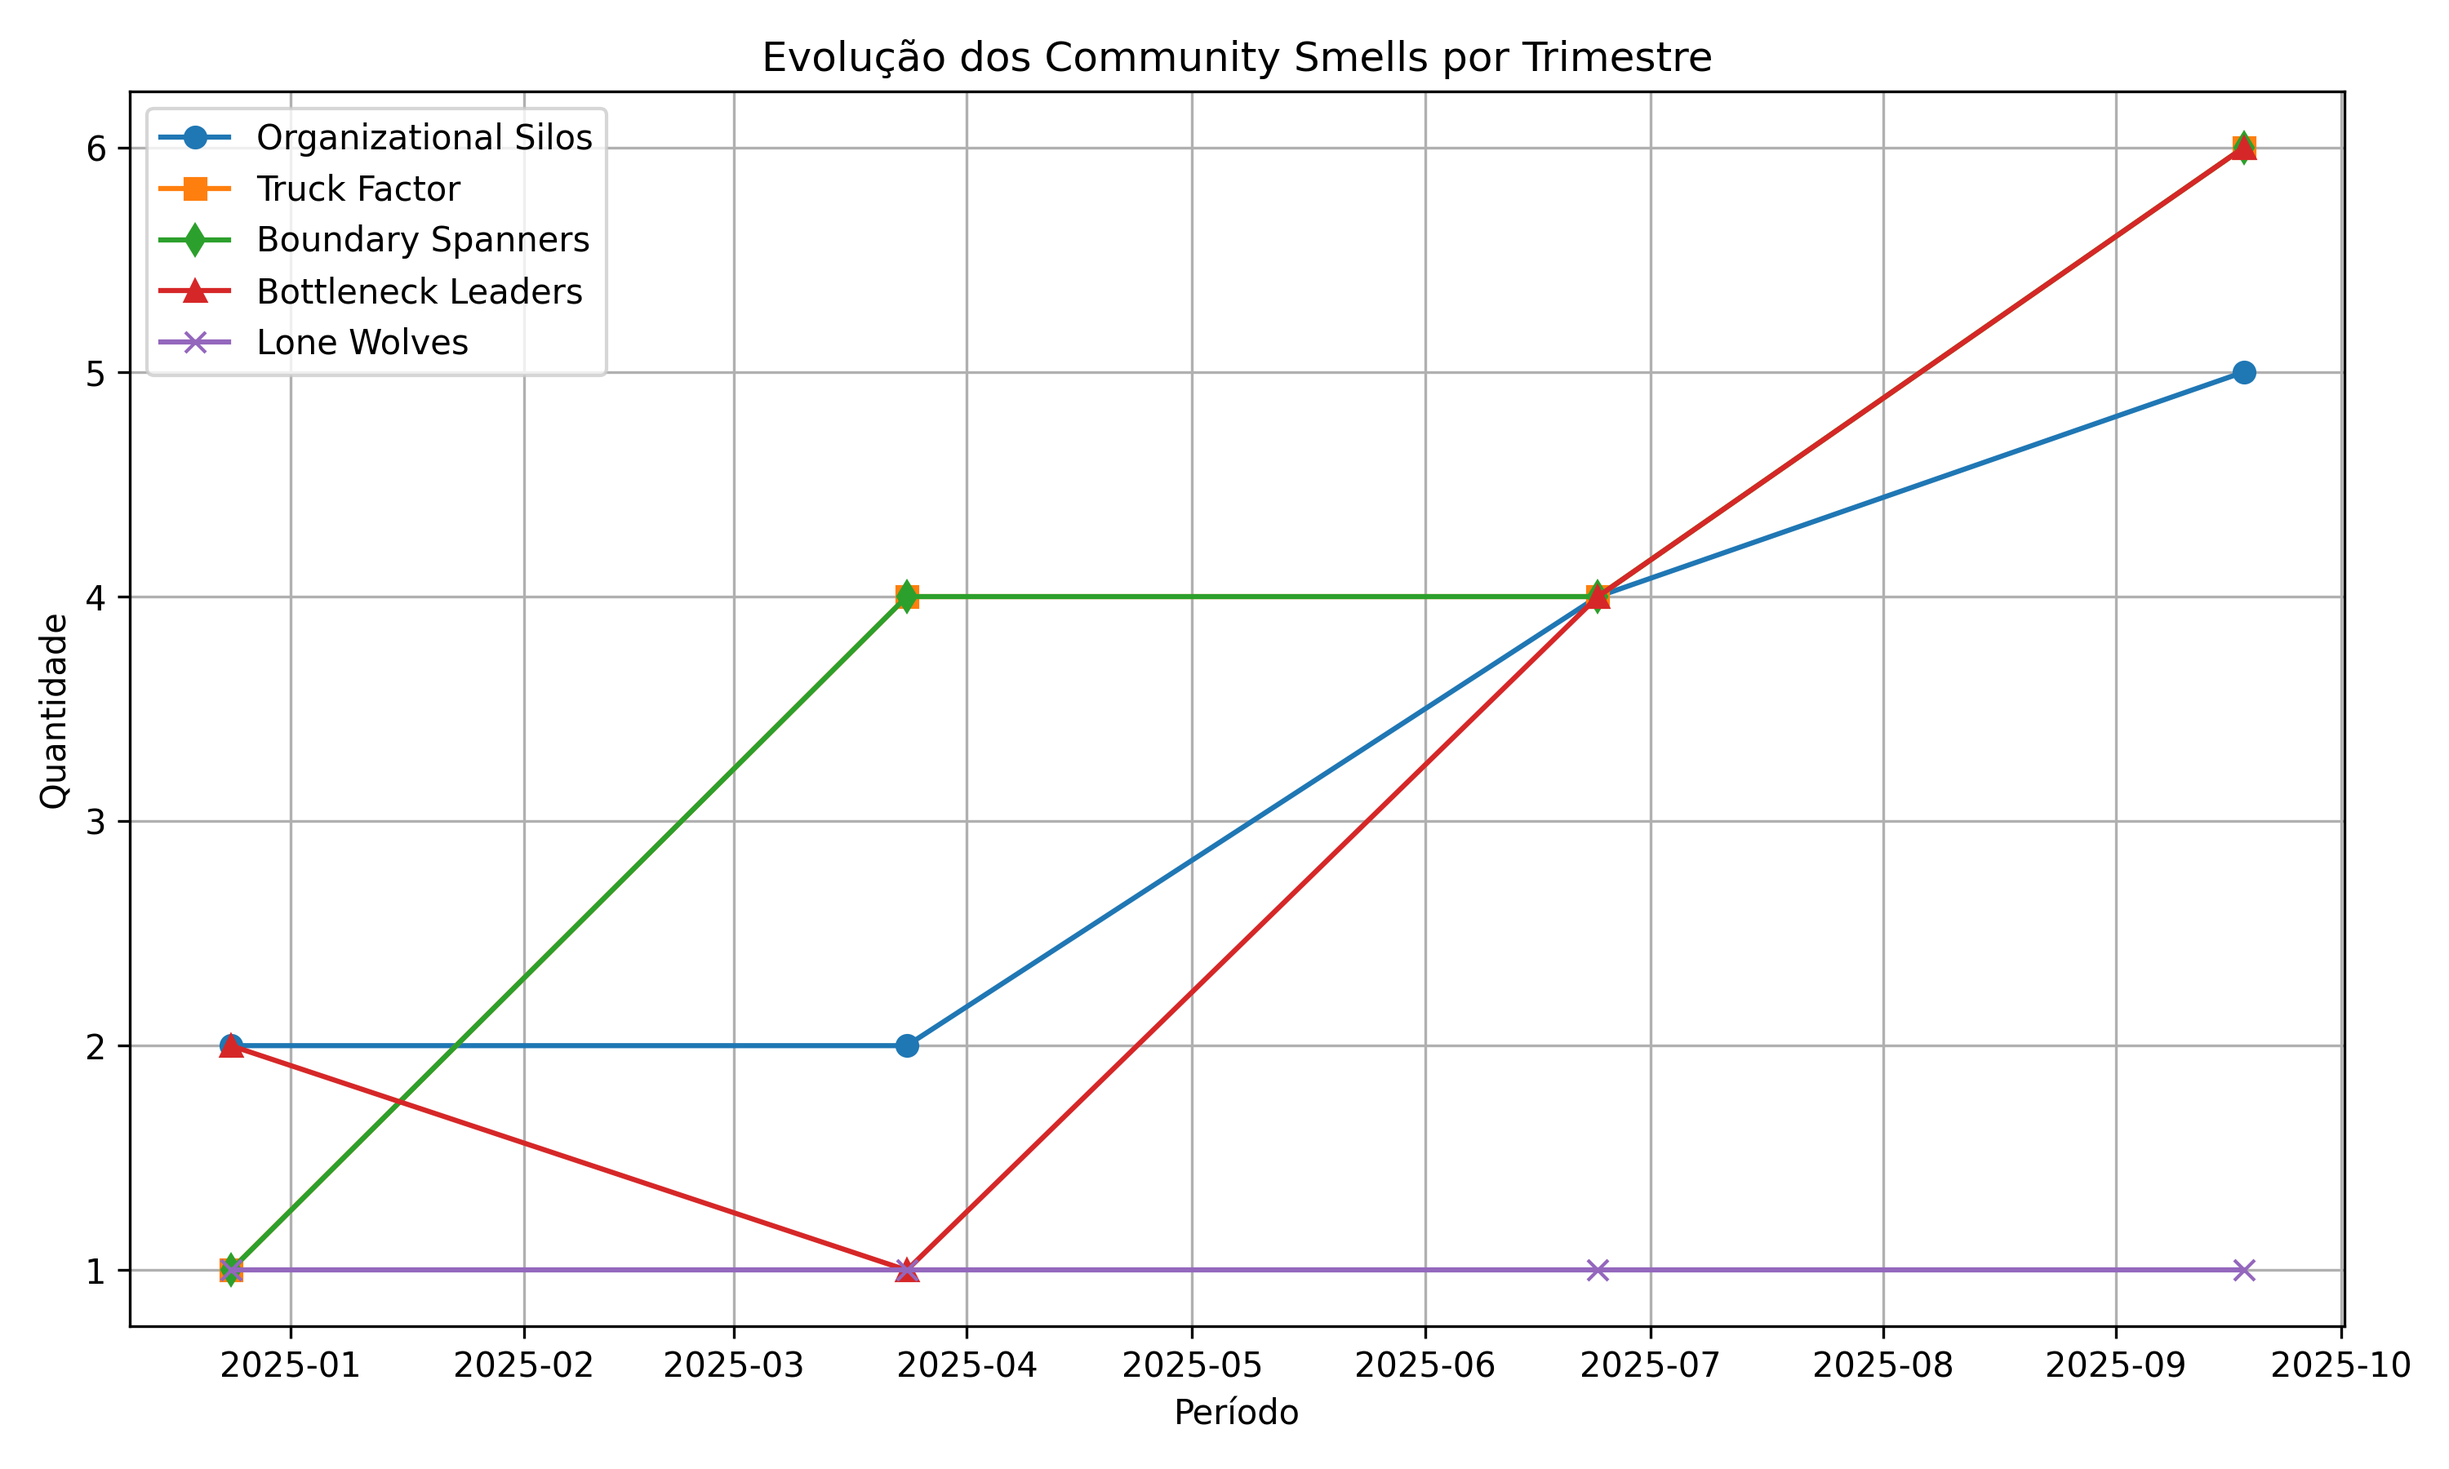
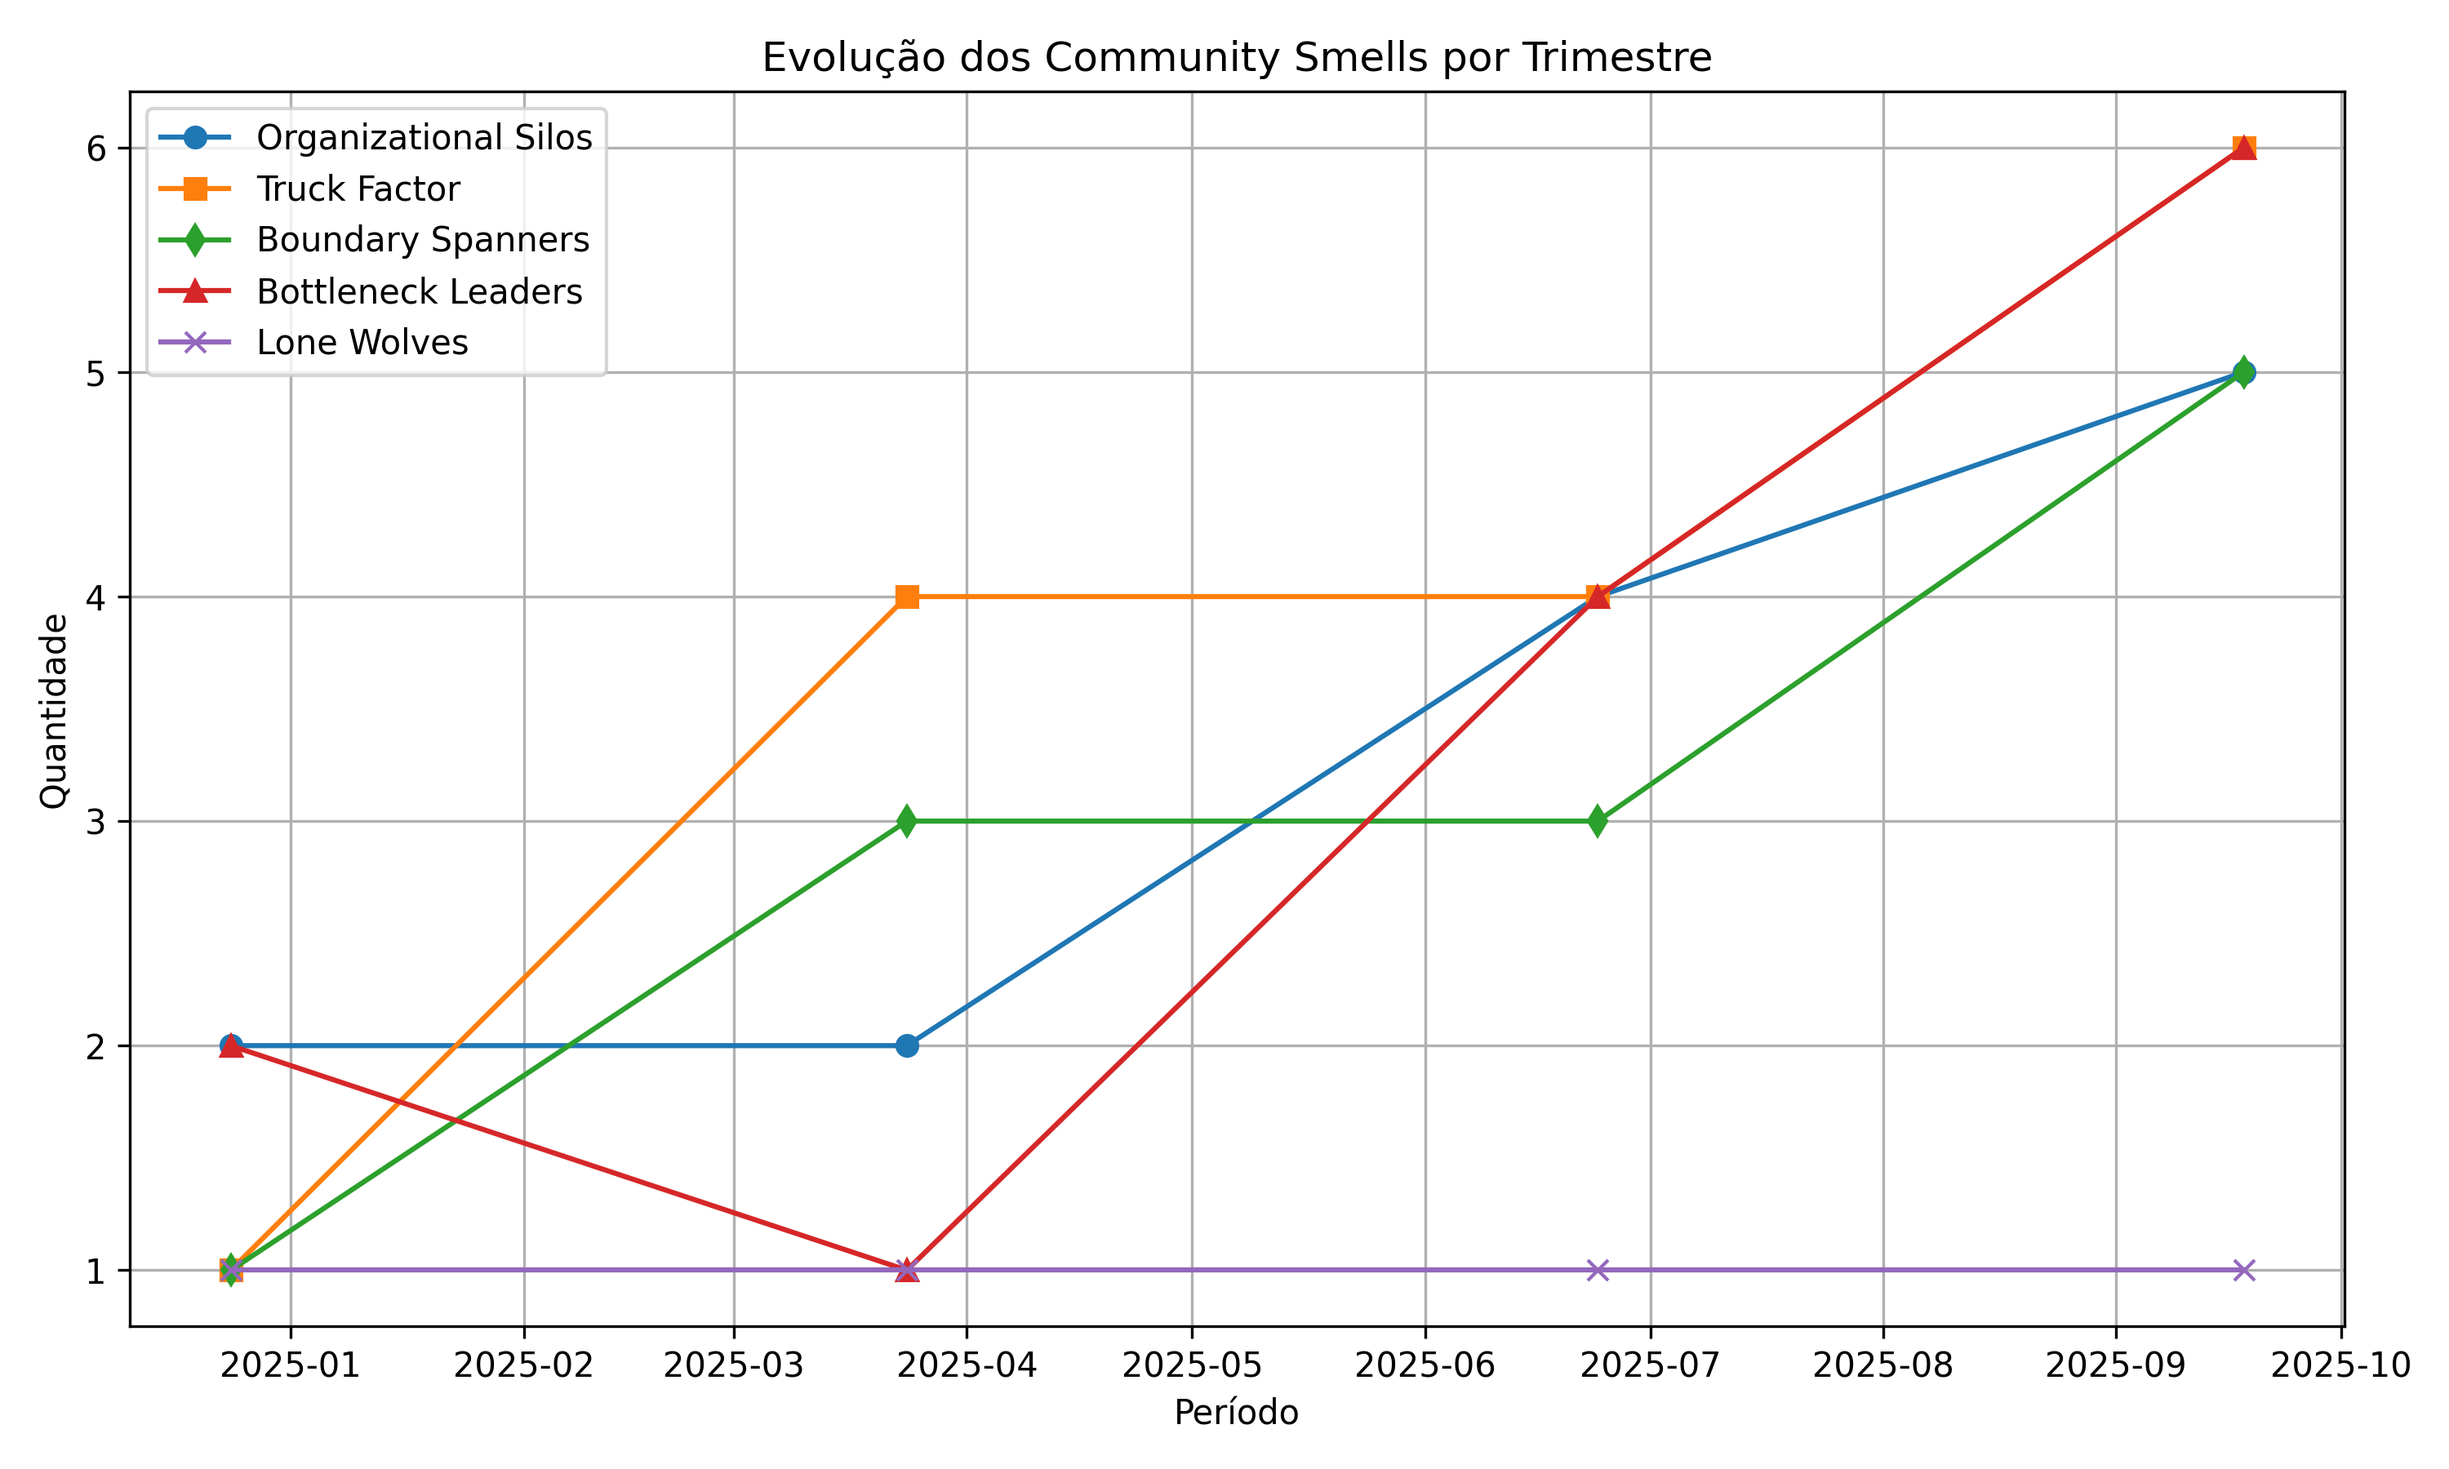
.
.

diff --git a/src/report/community_smells/community_smells_by_teams.py b/src/report/community_smells/community_smells_by_teams.py
@@ -16,7 +16,6 @@ USER = os.getenv("NEO4J_USER")
 PASSWORD = os.getenv("NEO4J_PASSWORD")
 driver = GraphDatabase.driver(URI, auth=(USER, PASSWORD))
 
-
 sys.stdout.reconfigure(encoding="utf-8")
 
 # === Função para remover acentos e caracteres especiais ===
@@ -24,8 +23,6 @@ def remover_acentos(txt):
     if not isinstance(txt, str):
         return txt
     return unicodedata.normalize("NFKD", txt).encode("ASCII", "ignore").decode("utf-8")
-
-
 
 # === Parâmetro de granularidade temporal ===
 TIME_UNIT = "all"
@@ -36,8 +33,8 @@ if TIME_UNIT == "all":
     // Colaboração (não-direcionada)
     MATCH (p1:person)-[r:CO_COMMIT_IN|CO_ASSIGNED]-(p2:person)
     WHERE r.created_at IS NOT NULL 
-    AND coalesce(p1.role, "none") <> "consultant"
-    AND coalesce(p2.role, "none") <> "consultant"  
+      AND coalesce(p1.role, "none") <> "consultant"
+      AND coalesce(p2.role, "none") <> "consultant"  
     WITH "ALL" AS periodo,
          p1.team_slug AS team1,
          p2.team_slug AS team2,
@@ -54,8 +51,8 @@ if TIME_UNIT == "all":
     // Coordenação (direcionada)
     MATCH (c:person)-[r:COORDINATES]->(a:person)
     WHERE r.created_at IS NOT NULL 
-    AND coalesce(c.role, "none") <> "consultant"
-    AND coalesce(a.role, "none") <> "consultant"  
+      AND coalesce(c.role, "none") <> "consultant"
+      AND coalesce(a.role, "none") <> "consultant"  
     WITH "ALL" AS periodo,
          c.team_slug AS team1,
          a.team_slug AS team2,
@@ -72,8 +69,8 @@ if TIME_UNIT == "all":
     // Isolados
     MATCH (p:person)
     WHERE NOT (p)-[:CO_COMMIT_IN|CO_ASSIGNED|COORDINATES]-(:person) 
-    AND p.organization = "leds-conectafapes" 
-    AND coalesce(p.role, "none") <> "consultant"
+      AND p.organization = "leds-conectafapes" 
+      AND coalesce(p.role, "none") <> "consultant"
     WITH "ALL" AS periodo,
          p.team_slug AS team1,
          p.name AS source,
@@ -96,7 +93,7 @@ df_edges = run_query(query_network)
 query_times = """
 MATCH (p:person)
 WHERE p.organization = "leds-conectafapes" 
-AND coalesce(p.role, "none") <> "consultant"
+  AND coalesce(p.role, "none") <> "consultant"
 RETURN DISTINCT p.team_slug AS time, p.name AS pessoa, p.role AS role
 ORDER BY time, pessoa
 """
@@ -124,6 +121,7 @@ for (periodo, team), grupo in df_edges.groupby(["periodo", "team1"]):
     G = nx.DiGraph()
     roles_map = {}
 
+    # Construir grafo do agrupamento atual
     for _, row in grupo.iterrows():
         if row["relation"] == "ISOLATED":
             G.add_node(row["source"], relation="ISOLATED")
@@ -146,7 +144,7 @@ for (periodo, team), grupo in df_edges.groupby(["periodo", "team1"]):
 
     sintese = [f"=== Periodo: {periodo} ({TIME_UNIT}) | Time: {team} ==="]
 
-    # 🔹 Lista de membros
+    # 🔹 Lista de membros do time
     membros_do_time = times_dict.get(team, [])
     if membros_do_time:
         membros_fmt = [f"{p} ({r})" for p, r in sorted(membros_do_time)]
@@ -154,58 +152,78 @@ for (periodo, team), grupo in df_edges.groupby(["periodo", "team1"]):
     else:
         sintese.append(f"Membros do time {team}: nenhum encontrado")
 
-    # === Articulation Points & Boundary Spanners ===
+    # 🔹 Conjunto de nós que pertencem ao time (pelo rótulo "Nome (time)")
     membros_time = [n for n in G.nodes() if f"({team})" in n]
+
+    # === Articulation Points (dentro do time) ===
+    articulation = []
     if membros_time:
         subG_time = G.subgraph(membros_time).copy()
         undirected_sub = subG_time.to_undirected()
-
         articulation = list(nx.articulation_points(undirected_sub))
+
         if articulation:
             sintese.append(
-                f"Pessoas críticas(Truck Factor) (se removidas desconectam dentro do time): {', '.join(articulation)}"
+                f"Pessoas críticas (Truck Factor) dentro do time: {', '.join(sorted(articulation))}"
             )
         else:
-            sintese.append("Nenhuma pessoa(Truck Factor) crítica encontrada dentro do time.")
-
-        # Boundary Spanners = articulações que conectam a outros times
-        boundary_spanners = []
-        for n in articulation:
-            vizinhos = set(G.neighbors(n)) | set(G.predecessors(n))
-            for v in vizinhos:
-                if f"({team})" not in v:   # vizinho fora do time atual
-                    boundary_spanners.append(n)
-                    break
-        if boundary_spanners:
-            sintese.append(f"Boundary Spanners: {', '.join(boundary_spanners)}")
-        else:  
-            sintese.append("Nenhum Boundary Spanner encontrado dentro do time")
+            sintese.append("Nenhuma pessoa crítica (Truck Factor) encontrada dentro do time.")
     else:
-        sintese.append("Nenhum membro encontrado para calcular articulações/boundary spanners")
-    # Lone Wolf
-    isolados = [n for n, d in G.degree() if d == 0]
-    sintese.append(f"Lone Wolf: {', '.join(isolados) if isolados else 'nenhum identificado'}")
+        sintese.append("Nenhum membro do time encontrado no grafo atual.")
 
-# Organizational Silos (somente dentro do time)
+    # === BOUNDARY SPANNERS (ajuste: precisa ligar a >= 2 OUTROS times) ===
+    def team_of(label: str):
+        if isinstance(label, str) and "(" in label and label.endswith(")"):
+            return label.rsplit("(", 1)[1][:-1]
+        return None
+
+    boundary_spanners = []
+    for n in articulation:
+        # só considera articulações do próprio time
+        if team_of(n) != team:
+            continue
+
+        # vizinhos no grafo completo (independente da direção)
+        vizinhos = set(G.successors(n)) | set(G.predecessors(n))
+
+        # times dos vizinhos, excluindo None e o time atual
+        times_vizinhos = {team_of(v) for v in vizinhos}
+        times_vizinhos = {t for t in times_vizinhos if t and t != team}
+
+        # precisa conectar a PELO MENOS 2 times distintos fora do time atual
+        if len(times_vizinhos) >= 2:
+            boundary_spanners.append(n)
+
+    boundary_spanners = sorted(set(boundary_spanners))
+    if boundary_spanners:
+        sintese.append(f"Boundary Spanners (conectam ≥2 outros times): {', '.join(boundary_spanners)}")
+    else:
+        sintese.append("Nenhum Boundary Spanner encontrado dentro do time")
+
+    # === Lone Wolf (nós sem arestas no grafo do agrupamento) ===
+    isolados = [n for n, d in G.degree() if d == 0]
+    sintese.append(f"Lone Wolf: {', '.join(sorted(isolados)) if isolados else 'nenhum identificado'}")
+
+    # === Organizational Silos (somente dentro do time) ===
     if membros_time:
         subG_time = G.subgraph(membros_time).copy()
         undirected_sub = subG_time.to_undirected()
         communities_sub = list(community.greedy_modularity_communities(undirected_sub))
-
         sintese.append(f"Organizational Silos no time: {len(communities_sub)} comunidades")
         for i, c in enumerate(communities_sub, 1):
             sintese.append(f"- Comunidade {i}: {', '.join(sorted(c))}")
     else:
         sintese.append("Organizational Silos: nenhum membro encontrado no time")
+
     analises.append("\n".join(sintese))
-    
+
 driver.close()
 
 # === Exportar para Markdown ===
 with open("analyse_community_smells_by_team.md", "w", encoding="utf-8") as f:
     f.write("# Relatório de Análise de Community Smells por Time\n\n")
 
-    if data_min and data_max:
+    if data_min is not None and data_max is not None:
         f.write(f"**Período analisado:** {data_min.date()} → {data_max.date()}\n\n")
 
     for bloco in analises:

diff --git a/src/report/community_smells/community_smells_all_time.py b/src/report/community_smells/community_smells_all_time.py
@@ -190,7 +190,7 @@ for (inicio, fim) in periodos:
     for n in articulation:
         vizinhos = set(G.neighbors(n)) | set(G.predecessors(n))
         times_vizinhos = {v.split("(")[-1].replace(")", "") for v in vizinhos if "(" in v}
-        if len(times_vizinhos) > 1:  # conecta mais de um time
+        if len(times_vizinhos) > 2:  # conecta mais de um time
             boundary_spanners.append(n)
     sintese.append(f"Boundary Spanners: {', '.join(boundary_spanners) if boundary_spanners else 'nenhum'}")
 

diff --git a/src/report/analyse_community_smells_by_team.md b/src/report/analyse_community_smells_by_team.md
@@ -1,0 +1,100 @@
+# Relatório de Análise de Community Smells por Time
+
+**Período analisado:** 2024-09-24 → 2025-09-18
+
+## Periodo: ALL (all) | Time: data
+
+- Membros do time data: BrenoAmancio (None), MateusLannes (leader), costabeber (None)
+- Nenhuma pessoa critica (Truck Factor) encontrada dentro do time.
+- Nenhum Boundary Spanner encontrado dentro do time
+- Lone Wolf: nenhum identificado
+- Organizational Silos no time: 1 comunidades
+- - Comunidade 1: BrenoAmancio (data), MateusLannes (data), costabeber (data)
+
+---
+
+## Periodo: ALL (all) | Time: design
+
+- Membros do time design: oliverids (leader)
+- Nenhuma pessoa critica (Truck Factor) encontrada dentro do time.
+- Nenhum Boundary Spanner encontrado dentro do time
+- Lone Wolf: nenhum identificado
+- Organizational Silos no time: 1 comunidades
+- - Comunidade 1: oliverids (design)
+
+---
+
+## Periodo: ALL (all) | Time: development
+
+- Membros do time development: ManoelRL (leader), OficialMark (None), Victor-Marins-Dev (None), guihocosta (None), vinicius-je (leader), viniciusxv27 (None)
+- Pessoas criticas (Truck Factor) dentro do time: ManoelRL (development)
+- Boundary Spanners (conectam 2 outros times): ManoelRL (development)
+- Lone Wolf: nenhum identificado
+- Organizational Silos no time: 2 comunidades
+- - Comunidade 1: OficialMark (development), Victor-Marins-Dev (development), vinicius-je (development)
+- - Comunidade 2: ManoelRL (development), guihocosta (development), viniciusxv27 (development)
+
+---
+
+## Periodo: ALL (all) | Time: devops
+
+- Membros do time devops: 0xdeadbad (None), ArthurCremasco (None), LuzKS (None), artcarvalho (None), joaomrpimentel (leader), lucasbruno-devdog (None), ogianpaneto (None)
+- Pessoas criticas (Truck Factor) dentro do time: joaomrpimentel (devops), ogianpaneto (devops)
+- Boundary Spanners (conectam 2 outros times): joaomrpimentel (devops), ogianpaneto (devops)
+- Lone Wolf: artcarvalho (devops)
+- Organizational Silos no time: 3 comunidades
+- - Comunidade 1: LuzKS (devops), lucasbruno-devdog (devops), ogianpaneto (devops)
+- - Comunidade 2: 0xdeadbad (devops), ArthurCremasco (devops), joaomrpimentel (devops)
+- - Comunidade 3: artcarvalho (devops)
+
+---
+
+## Periodo: ALL (all) | Time: frontend
+
+- Membros do time frontend: GustavoACaetano (None), HeloisaBorchardt (None), MachadoVsouza (None), RafaBMartins (None), harianadm (None), joaopbarcellos (None), lukevds (None), marcelasfl (leader), rafableao (None)
+- Nenhuma pessoa critica (Truck Factor) encontrada dentro do time.
+- Nenhum Boundary Spanner encontrado dentro do time
+- Lone Wolf: nenhum identificado
+- Organizational Silos no time: 2 comunidades
+- - Comunidade 1: MachadoVsouza (frontend), RafaBMartins (frontend), lukevds (frontend), marcelasfl (frontend), rafableao (frontend)
+- - Comunidade 2: GustavoACaetano (frontend), HeloisaBorchardt (frontend), harianadm (frontend), joaopbarcellos (frontend)
+
+---
+
+## Periodo: ALL (all) | Time: ia
+
+- Membros do time ia: CaioLessaSimao (None), Eduardo2006g (None), Erickuri-sudo (None), Ilhe8l (None), gabrieldpbrunetti (leader), jessicaduque (None), luanotoni (None), tadeuaugustovs (None)
+- Pessoas criticas (Truck Factor) dentro do time: Eduardo2006g (ia), Erickuri-sudo (ia), Ilhe8l (ia)
+- Nenhum Boundary Spanner encontrado dentro do time
+- Lone Wolf: nenhum identificado
+- Organizational Silos no time: 2 comunidades
+- - Comunidade 1: CaioLessaSimao (ia), Ilhe8l (ia), gabrieldpbrunetti (ia), jessicaduque (ia), luanotoni (ia)
+- - Comunidade 2: Eduardo2006g (ia), Erickuri-sudo (ia), tadeuaugustovs (ia)
+
+---
+
+## Periodo: ALL (all) | Time: management
+
+- Membros do time management: AndreCoelhoS (None), JenniferAmaral (leader), diogoanb-dev (leader), malumantovanelli (leader), paulossjunior (chief)
+- Nenhuma pessoa critica (Truck Factor) encontrada dentro do time.
+- Nenhum Boundary Spanner encontrado dentro do time
+- Lone Wolf: nenhum identificado
+- Organizational Silos no time: 3 comunidades
+- - Comunidade 1: JenniferAmaral (management), paulossjunior (management)
+- - Comunidade 2: diogoanb-dev (management), malumantovanelli (management)
+- - Comunidade 3: AndreCoelhoS (management)
+
+---
+
+## Periodo: ALL (all) | Time: qa
+
+- Membros do time qa: Hei-Lima (None), JoaoRicardoCetto (None), JoelHanerth (None), Vitorfdan (None), dnribeiro (None), sofialctv (leader)
+- Nenhuma pessoa critica (Truck Factor) encontrada dentro do time.
+- Nenhum Boundary Spanner encontrado dentro do time
+- Lone Wolf: nenhum identificado
+- Organizational Silos no time: 2 comunidades
+- - Comunidade 1: Vitorfdan (qa), dnribeiro (qa), sofialctv (qa)
+- - Comunidade 2: Hei-Lima (qa), JoaoRicardoCetto (qa), JoelHanerth (qa)
+
+---
+
